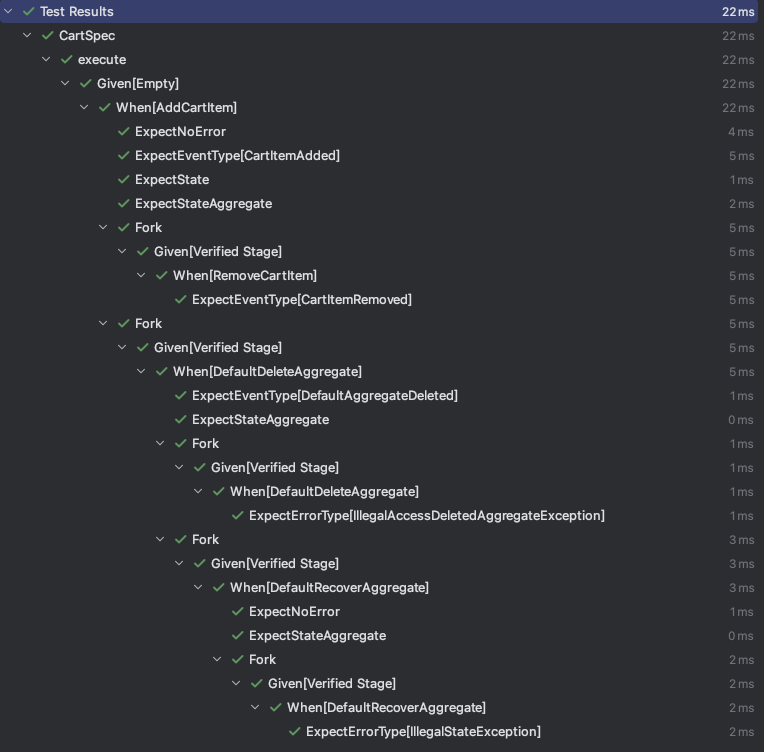
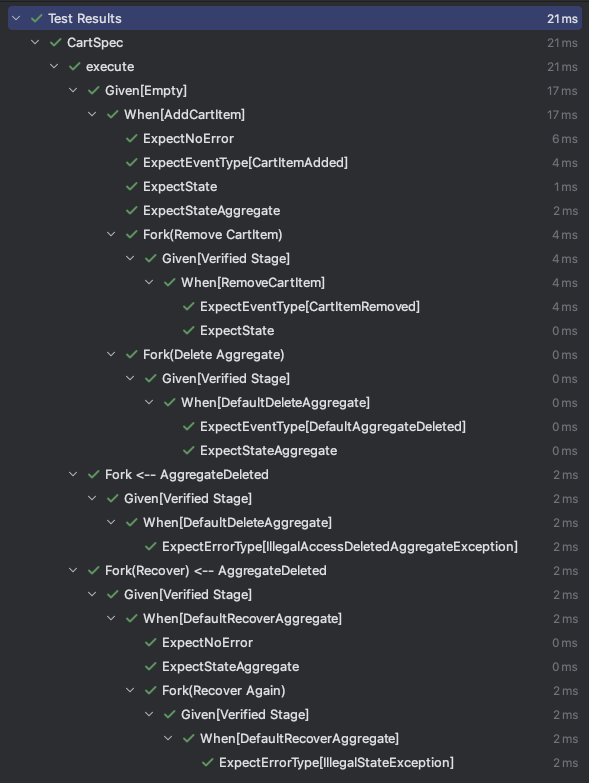
docs(test): update test suite documentation and examples
- Added named forks for better test readability
- Included state assertions after event expectations
- Demonstrated aggregate deletion and recovery flows
- Updated code examples in both English and Chinese docs
- Improved structure of CartSpec test cases
- Added references for shared test scenarios

Changed region(s): [[0.0, 0.0, 1.0, 1.0]]

diff --git a/test/wow-test/README.md b/test/wow-test/README.md
@@ -47,40 +47,66 @@ Use `AggregateSpec` for comprehensive aggregate testing with the DSL:
 ```kotlin
 import me.ahoo.wow.test.AggregateSpec
 
-class CartSpec : AggregateSpec<Cart, CartState>({
-    on {
-        val ownerId = generateGlobalId()
-        val addCartItem = AddCartItem(productId = "productId", quantity = 1)
-        givenOwnerId(ownerId)
-        whenCommand(addCartItem) {
-            expectNoError()
-            expectEventType(CartItemAdded::class)
-            expectState { items.assert().hasSize(1) }
-            expectStateAggregate { ownerId.assert().isEqualTo(ownerId) }
-
-            fork("Remove Item") {
-                val removeCartItem = RemoveCartItem(productIds = setOf(addCartItem.productId))
-                whenCommand(removeCartItem) {
-                    expectEventType(CartItemRemoved::class)
-                    expectState { items.assert().isEmpty() }
+class CartSpec : AggregateSpec<Cart, CartState>(
+    {
+        on {
+            val ownerId = generateGlobalId()
+            val addCartItem = AddCartItem(
+                productId = "productId",
+                quantity = 1,
+            )
+            givenOwnerId(ownerId)
+            whenCommand(addCartItem) {
+                expectNoError()
+                expectEventType(CartItemAdded::class)
+                expectState {
+                    items.assert().hasSize(1)
                 }
-            }
-
-            fork("Delete Aggregate", verifyError = false) {
-                whenCommand(DefaultDeleteAggregate) {
-                    expectEventType(DefaultAggregateDeleted::class)
-                    expectStateAggregate { deleted.assert().isTrue() }
-
-                    fork("Access Deleted Aggregate") {
-                        whenCommand(addCartItem) {
-                            expectErrorType(IllegalAccessDeletedAggregateException::class)
+                expectStateAggregate {
+                    ownerId.assert().isEqualTo(ownerId)
+                }
+                fork(name = "Remove CartItem") {
+                    val removeCartItem = RemoveCartItem(
+                        productIds = setOf(addCartItem.productId),
+                    )
+                    whenCommand(removeCartItem) {
+                        expectEventType(CartItemRemoved::class)
+                        expectState {
+                            items.assert().isEmpty()
+                        }
+                    }
+                }
+                fork(name = "Delete Aggregate") {
+                    whenCommand(DefaultDeleteAggregate) {
+                        ref("AggregateDeleted")
+                        expectEventType(DefaultAggregateDeleted::class)
+                        expectStateAggregate {
+                            deleted.assert().isTrue()
                         }
                     }
                 }
             }
         }
+        fork(ref = "AggregateDeleted") {
+            whenCommand(DefaultDeleteAggregate) {
+                expectErrorType(IllegalAccessDeletedAggregateException::class)
+            }
+        }
+        fork(ref = "AggregateDeleted", name = "Recover") {
+            whenCommand(DefaultRecoverAggregate) {
+                expectNoError()
+                expectStateAggregate {
+                    deleted.assert().isFalse()
+                }
+                fork(name = "Recover Again") {
+                    whenCommand(DefaultRecoverAggregate) {
+                        expectErrorType(IllegalStateException::class)
+                    }
+                }
+            }
+        }
     }
-})
+)
 ```
 
 ### Saga Testing

diff --git a/test/wow-test/README.zh-CN.md b/test/wow-test/README.zh-CN.md
@@ -47,40 +47,66 @@ dependencies {
 ```kotlin
 import me.ahoo.wow.test.AggregateSpec
 
-class CartSpec : AggregateSpec<Cart, CartState>({
-    on {
-        val ownerId = generateGlobalId()
-        val addCartItem = AddCartItem(productId = "productId", quantity = 1)
-        givenOwnerId(ownerId)
-        whenCommand(addCartItem) {
-            expectNoError()
-            expectEventType(CartItemAdded::class)
-            expectState { items.assert().hasSize(1) }
-            expectStateAggregate { ownerId.assert().isEqualTo(ownerId) }
-
-            fork("Remove Item") {
-                val removeCartItem = RemoveCartItem(productIds = setOf(addCartItem.productId))
-                whenCommand(removeCartItem) {
-                    expectEventType(CartItemRemoved::class)
-                    expectState { items.assert().isEmpty() }
+class CartSpec : AggregateSpec<Cart, CartState>(
+    {
+        on {
+            val ownerId = generateGlobalId()
+            val addCartItem = AddCartItem(
+                productId = "productId",
+                quantity = 1,
+            )
+            givenOwnerId(ownerId)
+            whenCommand(addCartItem) {
+                expectNoError()
+                expectEventType(CartItemAdded::class)
+                expectState {
+                    items.assert().hasSize(1)
                 }
-            }
-
-            fork("Delete Aggregate", verifyError = false) {
-                whenCommand(DefaultDeleteAggregate) {
-                    expectEventType(DefaultAggregateDeleted::class)
-                    expectStateAggregate { deleted.assert().isTrue() }
-
-                    fork("Access Deleted Aggregate") {
-                        whenCommand(addCartItem) {
-                            expectErrorType(IllegalAccessDeletedAggregateException::class)
+                expectStateAggregate {
+                    ownerId.assert().isEqualTo(ownerId)
+                }
+                fork(name = "Remove CartItem") {
+                    val removeCartItem = RemoveCartItem(
+                        productIds = setOf(addCartItem.productId),
+                    )
+                    whenCommand(removeCartItem) {
+                        expectEventType(CartItemRemoved::class)
+                        expectState {
+                            items.assert().isEmpty()
+                        }
+                    }
+                }
+                fork(name = "Delete Aggregate") {
+                    whenCommand(DefaultDeleteAggregate) {
+                        ref("AggregateDeleted")
+                        expectEventType(DefaultAggregateDeleted::class)
+                        expectStateAggregate {
+                            deleted.assert().isTrue()
                         }
                     }
                 }
             }
         }
+        fork(ref = "AggregateDeleted") {
+            whenCommand(DefaultDeleteAggregate) {
+                expectErrorType(IllegalAccessDeletedAggregateException::class)
+            }
+        }
+        fork(ref = "AggregateDeleted", name = "Recover") {
+            whenCommand(DefaultRecoverAggregate) {
+                expectNoError()
+                expectStateAggregate {
+                    deleted.assert().isFalse()
+                }
+                fork(name = "Recover Again") {
+                    whenCommand(DefaultRecoverAggregate) {
+                        expectErrorType(IllegalStateException::class)
+                    }
+                }
+            }
+        }
     }
-})
+)
 ```
 
 ### Saga 测试

diff --git a/documentation/docs/en/guide/test-suite.md b/documentation/docs/en/guide/test-suite.md
@@ -61,39 +61,42 @@ class CartSpec : AggregateSpec<Cart, CartState>(
                 expectStateAggregate {
                     ownerId.assert().isEqualTo(ownerId)
                 }
-                fork {
+                fork(name = "Remove CartItem") {
                     val removeCartItem = RemoveCartItem(
                         productIds = setOf(addCartItem.productId),
                     )
                     whenCommand(removeCartItem) {
                         expectEventType(CartItemRemoved::class)
+                        expectState {
+                            items.assert().isEmpty()
+                        }
                     }
                 }
-                fork {
+                fork(name = "Delete Aggregate") {
                     whenCommand(DefaultDeleteAggregate) {
+                        ref("AggregateDeleted")
                         expectEventType(DefaultAggregateDeleted::class)
                         expectStateAggregate {
                             deleted.assert().isTrue()
                         }
-
-                        fork {
-                            whenCommand(DefaultDeleteAggregate) {
-                                expectErrorType(IllegalAccessDeletedAggregateException::class)
-                            }
-                        }
-                        fork {
-                            whenCommand(DefaultRecoverAggregate) {
-                                expectNoError()
-                                expectStateAggregate {
-                                    deleted.assert().isFalse()
-                                }
-                                fork {
-                                    whenCommand(DefaultRecoverAggregate) {
-                                        expectErrorType(IllegalStateException::class)
-                                    }
-                                }
-                            }
-                        }
+                    }
+                }
+            }
+        }
+        fork(ref = "AggregateDeleted") {
+            whenCommand(DefaultDeleteAggregate) {
+                expectErrorType(IllegalAccessDeletedAggregateException::class)
+            }
+        }
+        fork(ref = "AggregateDeleted", name = "Recover") {
+            whenCommand(DefaultRecoverAggregate) {
+                expectNoError()
+                expectStateAggregate {
+                    deleted.assert().isFalse()
+                }
+                fork(name = "Recover Again") {
+                    whenCommand(DefaultRecoverAggregate) {
+                        expectErrorType(IllegalStateException::class)
                     }
                 }
             }

diff --git a/documentation/docs/zh/guide/test-suite.md b/documentation/docs/zh/guide/test-suite.md
@@ -61,39 +61,42 @@ class CartSpec : AggregateSpec<Cart, CartState>(
                 expectStateAggregate {
                     ownerId.assert().isEqualTo(ownerId)
                 }
-                fork {
+                fork(name = "Remove CartItem") {
                     val removeCartItem = RemoveCartItem(
                         productIds = setOf(addCartItem.productId),
                     )
                     whenCommand(removeCartItem) {
                         expectEventType(CartItemRemoved::class)
+                        expectState {
+                            items.assert().isEmpty()
+                        }
                     }
                 }
-                fork {
+                fork(name = "Delete Aggregate") {
                     whenCommand(DefaultDeleteAggregate) {
+                        ref("AggregateDeleted")
                         expectEventType(DefaultAggregateDeleted::class)
                         expectStateAggregate {
                             deleted.assert().isTrue()
                         }
-
-                        fork {
-                            whenCommand(DefaultDeleteAggregate) {
-                                expectErrorType(IllegalAccessDeletedAggregateException::class)
-                            }
-                        }
-                        fork {
-                            whenCommand(DefaultRecoverAggregate) {
-                                expectNoError()
-                                expectStateAggregate {
-                                    deleted.assert().isFalse()
-                                }
-                                fork {
-                                    whenCommand(DefaultRecoverAggregate) {
-                                        expectErrorType(IllegalStateException::class)
-                                    }
-                                }
-                            }
-                        }
+                    }
+                }
+            }
+        }
+        fork(ref = "AggregateDeleted") {
+            whenCommand(DefaultDeleteAggregate) {
+                expectErrorType(IllegalAccessDeletedAggregateException::class)
+            }
+        }
+        fork(ref = "AggregateDeleted", name = "Recover") {
+            whenCommand(DefaultRecoverAggregate) {
+                expectNoError()
+                expectStateAggregate {
+                    deleted.assert().isFalse()
+                }
+                fork(name = "Recover Again") {
+                    whenCommand(DefaultRecoverAggregate) {
+                        expectErrorType(IllegalStateException::class)
                     }
                 }
             }
